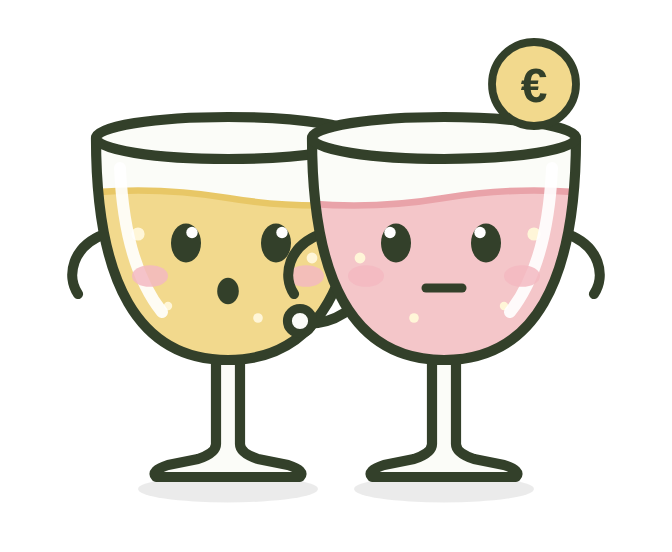
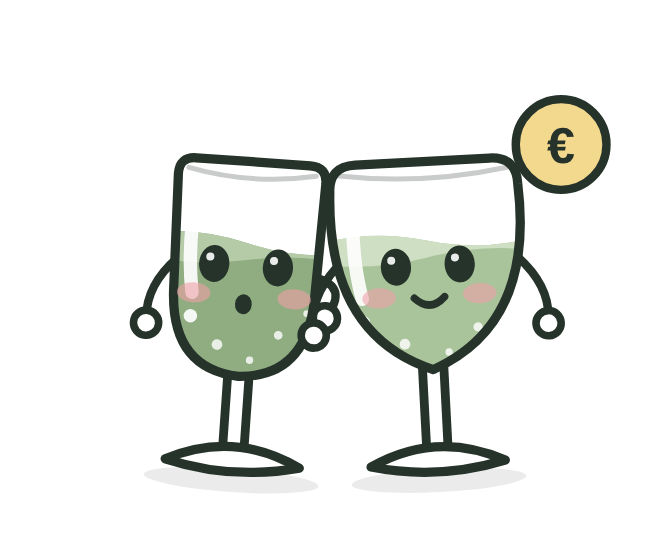
Mascote nova com líquido verde na app
Os PNG de assets/mascot/ passam a ser gerados por
marketing/mascote/export_png.py, com as poses budget e chat novas.

Claude-Session: https://claude.ai/code/session_011Yy3ggX6S361c8Xg6xMkmg

Changed region(s): [[0.0938, 0.0616, 0.9062, 0.8931]]

diff --git a/mobile-app/app/lib/shared/widgets/mascot.dart b/mobile-app/app/lib/shared/widgets/mascot.dart
@@ -5,8 +5,9 @@ import 'steady_ticker.dart';
 
 /// Mascote "o Tchin e o Tchin" — duas taças (espumante e rosé).
 /// Pedido do utilizador (2026-10-17): "criar um avatar para a app, como o
-/// duolingo" → escolhida a variante "o Tchin e o Tchin". As poses vêm do
-/// canvas de design, exportadas para `assets/mascot/` (PNG a 3x).
+/// duolingo" → escolhida a variante "o Tchin e o Tchin". Copos novos com
+/// líquido verde aprovados em 2026-10-19: as poses são geradas por
+/// `marketing/mascote/export_png.py` para `assets/mascot/` (PNG a 3x).
 enum MascotPose {
   wave('assets/mascot/duo_wave.png'),
   budget('assets/mascot/duo_budget.png'),

diff --git a/marketing/mascote/export_png.py b/marketing/mascote/export_png.py
@@ -1,0 +1,32 @@
+"""Exporta as poses da mascote para PNG (os ficheiros de assets/mascot/ da app).
+
+Uso: python3 export_png.py <pasta de destino>   (precisa de Playwright)
+"""
+import sys, pathlib
+from playwright.sync_api import sync_playwright
+from mascot import duo, glass
+
+out = pathlib.Path(sys.argv[1]); out.mkdir(parents=True, exist_ok=True)
+
+def duo_svg(pose):
+    # Mesma proporção dos PNG antigos (672x552), com espaço em cima para a moeda/balão.
+    svg = duo(pose, w=672)
+    return svg.replace('viewBox="0 0 400 270" width="672"', 'viewBox="0 -52 400 328.57" width="672" height="552"')
+
+def glass_svg(kind):
+    g = glass(kind, 'happy', 'open', ('up', 'up'))
+    return g.replace('viewBox="0 0 200 240"', 'viewBox="-12 -16 224 270.6" width="432" height="522"')
+
+items = {f'duo_{p}.png': (duo_svg(p), 672, 552) for p in ('wave', 'budget', 'sleep', 'sad', 'chat', 'clink')}
+items['glass_gold.png'] = (glass_svg('gold'), 432, 522)
+items['glass_rose.png'] = (glass_svg('rose'), 432, 522)
+
+with sync_playwright() as pw:
+    b = pw.chromium.launch()
+    pg = b.new_page()
+    for name, (svg, w, h) in items.items():
+        pg.set_viewport_size({'width': w, 'height': h})
+        pg.set_content(f'<html><body style="margin:0;background:transparent">{svg}</body></html>')
+        pg.locator('svg').first.screenshot(path=str(out / name), omit_background=True)
+        print(name)
+    b.close()

diff --git a/marketing/mascote/mascot.py b/marketing/mascote/mascot.py
@@ -113,6 +113,18 @@ def duo(pose='clink', w=320):
         b = glass('rose', 'sad', 'frown', ('down', 'down'), fill=.25)
         ra, rb, dx = -3, 3, 20
         top = ''
+    elif pose == 'budget':
+        a = glass('gold', 'open', 'o', ('down', 'hip'))
+        b = glass('rose', 'open', 'smile', ('down', 'down'))
+        ra, rb, dx = 4, -3, 22
+        top = (f'<circle cx="334" cy="34" r="27" fill="#F2D98D" stroke="{INK}" stroke-width="5"/>'
+               f'<text x="334" y="45" text-anchor="middle" font-family="sans-serif" font-weight="800" font-size="30" fill="{INK}">€</text>')
+    elif pose == 'chat':
+        a = glass('gold', 'open', 'smile', ('down', 'down'))
+        b = glass('rose', 'open', 'o', ('down', 'down'))
+        ra, rb, dx = 4, -3, 22
+        top = (f'<path d="M286 6 H362 Q382 6 382 26 V40 Q382 60 362 60 H318 L302 74 L304 60 H286 Q266 60 266 40 V26 Q266 6 286 6 Z" fill="#fff" stroke="{INK}" stroke-width="5" stroke-linejoin="round"/>'
+               + ''.join(f'<circle cx="{x}" cy="33" r="5.5" fill="{INK}"/>' for x in (306, 324, 342)))
     else:  # celebrate
         a = glass('gold', 'happy', 'open', ('up', 'up'), fill=.8)
         b = glass('rose', 'happy', 'open', ('up', 'up'), fill=.8)

diff --git a/marketing/README.md b/marketing/README.md
@@ -28,4 +28,6 @@ python3 build_site.py   # cria a-nossa-site.html
 python3 snap.py 5 12 20 # opcional: imagens de alguns instantes do vídeo, para rever
 ```
 
-A mascote: dentro de `mascote/`, `python3 build.py` cria `copos.html`. Os copos são SVG gerados por `mascot.py` (função `duo(pose)`: `clink`, `wave`, `celebrate`, `sleep`, `sad`).
+A mascote: dentro de `mascote/`, `python3 build.py` cria `copos.html`. Os copos são SVG gerados por `mascot.py` (função `duo(pose)`: `clink`, `wave`, `celebrate`, `sleep`, `sad`, `budget`, `chat`).
+
+Para atualizar os PNG da app: `python3 export_png.py ../../mobile-app/app/assets/mascot` (precisa de Playwright).
